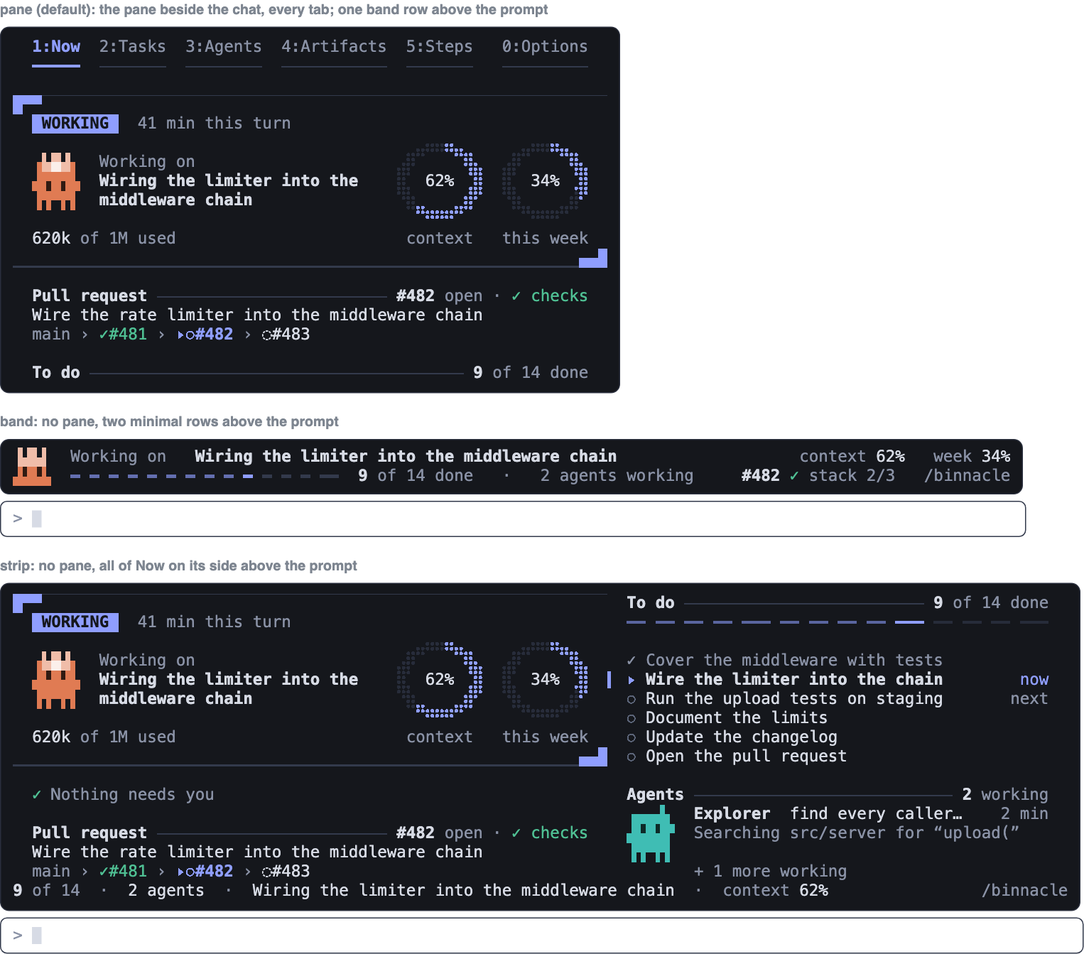
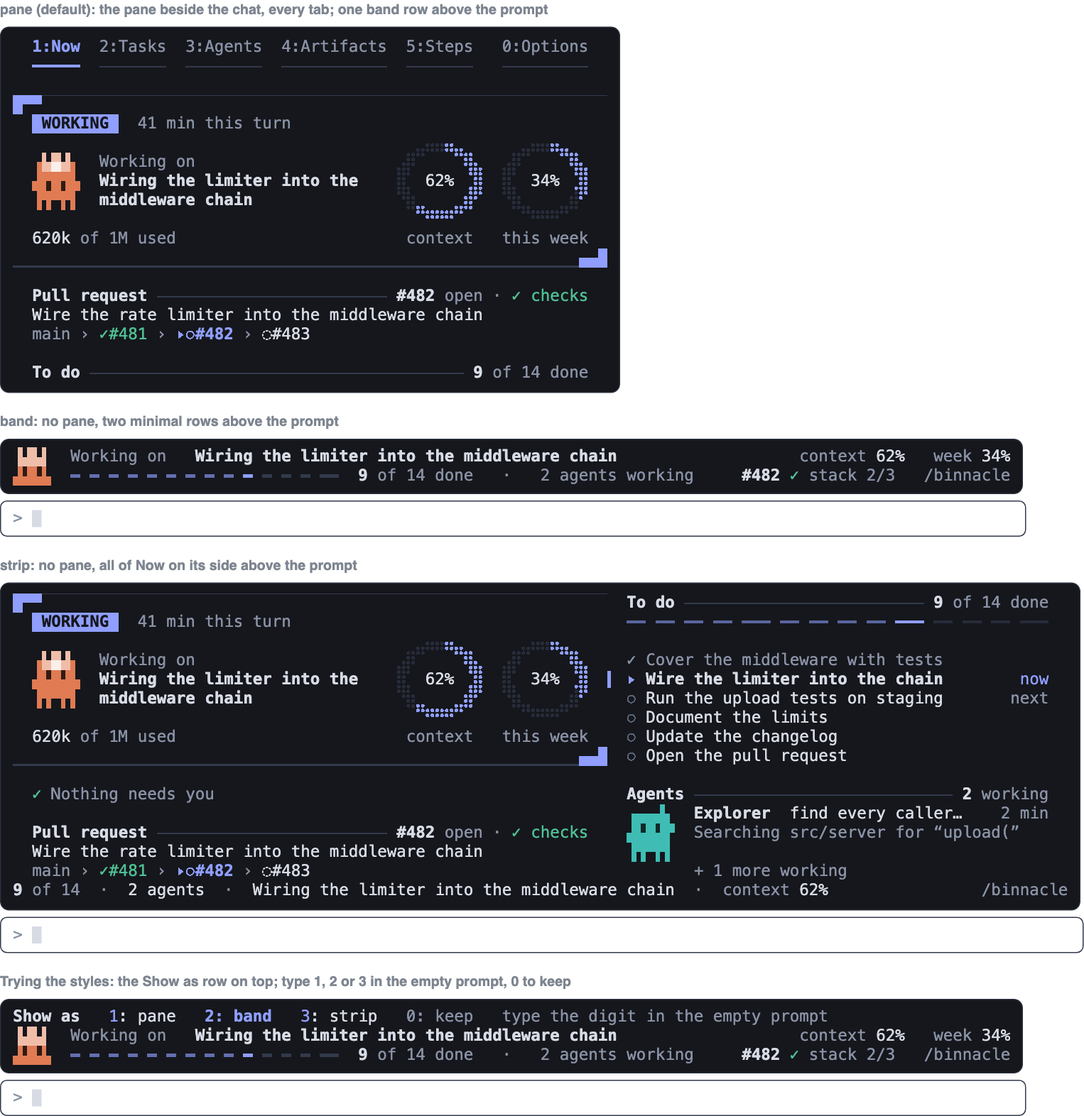
README: current renderings, a Pull request picture, the Show as try row

diff --git a/docs/readme/tools/shots.test.tsx b/docs/readme/tools/shots.test.tsx
@@ -28,6 +28,21 @@ const PR: PrState = {
     ],
   },
 }
+// A longer stack for the Pull request picture: every mark once (merged, queued, current, failing, draft).
+const STACK: PrState = {
+  at: NOW, branch: 'feat/limiter-chain',
+  current: { ...PR.current!, review: 'approved' },
+  stack: {
+    trunk: 'main',
+    items: [
+      { branch: 'feat/limiter-core', number: 480, url: 'https://github.com/acme/api/pull/480', title: 'Token bucket limiter', state: 'merged', checks: 'pass' },
+      { branch: 'feat/limiter-config', number: 481, url: 'https://github.com/acme/api/pull/481', title: 'Config for the limits', state: 'open', queued: true, checks: 'pass' },
+      { branch: 'feat/limiter-chain', number: 482, url: 'https://github.com/acme/api/pull/482', title: 'Wire the rate limiter into the middleware chain', state: 'open', checks: 'pass' },
+      { branch: 'feat/limiter-errors', number: 483, url: 'https://github.com/acme/api/pull/483', title: 'Return 429 with Retry-After', state: 'open', checks: 'fail' },
+      { branch: 'feat/limiter-docs', number: 484, url: 'https://github.com/acme/api/pull/484', title: 'Document the limits', state: 'open', draft: true, checks: 'pending' },
+    ],
+  },
+}
 // The one-shot moves (motion sketches) play on a view's first draw (the gauges fill when the pane opens): the
 // clock starts SETTLE_MS early, and a shot is the redraw at NOW, after every move has ended.
 const SETTLE_MS = 2000
@@ -125,13 +140,16 @@ test('narrow-40', async ($, on) => { world(on, busy()); await pane($, 'narrow-40
 
 test('band-busy', async ($, on) => { world(on, busy()); await band($, 'band-busy', 104) })
 test('band-asked', async ($, on) => { world(on, asked()); await band($, 'band-asked', 104) })
-test('band-watch', async ($, on) => { world(on, { ...watching(), budget: busy().budget }); await band($, 'band-watch', 104) })
 test('band-idle', async ($, on) => { world(on, idle()); await band($, 'band-idle', 104) })
 test('band-empty', async ($, on) => { world(on, empty as Timeline, initialUi, undefined); await band($, 'band-empty', 104) })
 test('band-stopped', async ($, on) => { world(on, stopped()); await band($, 'band-stopped', 104) })
 test('band-watch-64', async ($, on) => { world(on, { ...watching(), budget: busy().budget }); await band($, 'band-watch-64', 64) })
 test('band-64', async ($, on) => { world(on, busy()); await band($, 'band-64', 64) })
 test('band-40', async ($, on) => { world(on, busy()); await band($, 'band-40', 40) })
+test('now-stack', async ($, on) => { world(on, busy(), initialUi, STACK); await pane($, 'now-stack', 62, 46) })
+test('band-stack', async ($, on) => { world(on, busy(), initialUi, STACK); await band($, 'band-stack', 104) })
+// R55: trying the Show as styles from the band; the row sits on top until `0: keep`.
+test('band-try', { options: { showAs: 'band' } }, async ($, on) => { world(on, busy(), { ...initialUi, showAsTry: true }); await band($, 'band-try', 104) })
 test('band-strip', async ($, on) => { world(on, busy(), { ...initialUi, strip: true }); await band($, 'band-strip', 110, 'terminal', { maxRows: 20, scroll: { offset: 0, bodyRows: 20 } }) })
 
 test('desktop-now', async ($, on) => { world(on, busy()); await pane($, 'desktop-now', 62, 46, { surface: 'desktop' }) })

diff --git a/README.md b/README.md
@@ -14,7 +14,7 @@
 <p align="center">
   <picture>
     <source media="(prefers-color-scheme: light)" srcset="docs/readme/hero-day.png">
-    <img src="docs/readme/hero.png" width="960" alt="A terminal running Claude Code. The chat is on the left. On the right the Binnacle pane is open on the Now tab: the tab bar with 0:Options at its right end, a WORKING pill, 41 min this turn, the goal 'Wiring the limiter into the middleware chain', two ring gauges at 62% context and 34% this week, the Pull request #482 with its checks and the stack main › #481 › #482 › #483, a to-do list at 9 of 14 done, three notes, and two working agents drawn as small pixel Critters at the foot. Above the prompt a one-row band repeats the count, the agents and the context figure, and /binnacle.">
+    <img src="docs/readme/hero.png" width="960" alt="A terminal running Claude Code. The chat is on the left. On the right the Binnacle pane is open on the Now tab: the tab bar with 0:Options at its right end, a WORKING pill, 41 min this turn, the goal 'Wiring the limiter into the middleware chain', two ring gauges at 62% context and 34% this week, the Pull request #482 with its checks and the stack main › ✓#481 › ▸#482 › #483, a to-do list at 9 of 14 done with the current task marked now, three notes, and at the foot Agents, 2 working: an Explorer drawn as a small pixel Critter, '+ 1 more working' and '31 finished earlier'. Above the prompt a one-row band repeats the count, the agents, the goal and the context figure, and /binnacle.">
   </picture>
 </p>
 
@@ -41,28 +41,28 @@ Pick one with the **Show as** option (the Options tab, `0`, or `/config`); it ho
 |---|---|---|
 | `pane` (default) | The pane beside the chat with every tab, and a one-row band above the prompt. | `/binnacle` |
 | `band` | No pane. Two minimal rows above the prompt: the lead's Critter, the goal, the to-do bar, context and week, and the PR chip. Needs a terminal at least 80 columns wide (one row below that). | `/binnacle close` (or <kbd>Ctrl</kbd>+<kbd>X</kbd> <kbd>X</kbd>) |
-| `strip` | No pane. All of Now laid on its side above the prompt: the header, the PR, Watch, To do and Agents. | `/binnacle strip` |
+| `strip` | No pane. All of Now laid on its side above the prompt: the header, Needs you (or "Nothing needs you"), Watch, the PR, To do and Agents. | `/binnacle strip` |
 
 <p align="center">
-  <img src="docs/readme/show-as.png" width="760" alt="The three Show as choices, top to bottom. pane: the Binnacle pane on the Now tab with its tab bar, header and lists. band: two rows above the prompt, the lead's Critter, 'Working on' and the goal, context and week figures, then the to-do bar, '9 of 14 done', the agents and /binnacle. strip: a much taller block above the prompt with the full Now header and gauges on the left and To do and Agents on the right.">
+  <img src="docs/readme/show-as.png" width="760" alt="The three Show as choices and the row for trying them, top to bottom. pane: the top of the Binnacle pane on the Now tab, the tab bar ending in 0:Options, the header with its rings, the Pull request #482 with its stack, and To do. band: two rows above the prompt, the lead's Critter, 'Working on' and the goal, context and week figures, then the to-do bar, '9 of 14 done', '2 agents working', the PR chip '#482 ✓ stack 2/3' and /binnacle. strip: a much taller block above the prompt with the full Now header, 'Nothing needs you' and the Pull request on the left, To do and Agents on the right, and the band's one row beneath. Trying the styles: the band with one more row on top, 'Show as 1: pane 2: band 3: strip 0: keep', band in bold, and 'type the digit in the empty prompt'.">
 </p>
 
 ### Every part
 
 | Where | What it is |
 |---|---|
-| **Pane** | Docks beside the transcript. Five tabs, keys `1` to `5`, and an Options tab on `0` at the right of the tab bar. |
+| **Pane** | Docks beside the transcript. Five tabs, keys `1` to `5`, and an Options tab, `0`, at the right end of the tab bar. |
 | **1 Now** | The header (state, time this turn, the goal, context and week as rings; `header: slim` for a 4-row one), Needs you only when something does, the pull request and its GitHub stack, then To do, Notes and decisions, the newest Artifacts, and Agents. |
 | **2 Tasks** | How many tasks are done, the pace, effort per task, then Doing now with its agents, Up next and Done. |
 | **3 Agents** | Main and every subagent or workflow agent, as a list of cards or as the Crew map. |
 | **4 Artifacts** | What the session produced: published pages, documents, results, links, changed files, kept steps, and the handoff export. |
 | **5 Steps** | Every tool call of the session, grouped by turn, filterable and searchable. A step opens in place. |
 | **Band** | Above the prompt, always: two rows with the pane closed (from 80 columns), one row while the pane is open, one dim row when all is done. Before anything happens the lead's Critter peeks up from below beside "Ready when you are", a small companion that never leaves. |
-| **Slim** | Under 32 columns the pane is one stacked summary with no tab bar; it keeps a one-line Watch (or "quiet 30 min"). |
-| **Strip** | From 96 columns Now lies on its side; `/binnacle strip` puts that strip above the prompt instead of the pane. |
+| **Slim** | Under 32 columns the pane is one stacked summary with no tab bar; it keeps the "Nothing needs you" line, a one-line Watch (or "quiet 30 min") and the PR as a chip. |
+| **Strip** | Now on its side; `/binnacle strip` (or Show as `strip`) puts it above the prompt instead of the pane. A pane 96 columns or wider draws Now this way too. |
 | **Desktop app** | The Now header and the band are drawn as pictures (Svg), ending at the header, in the same words and colours. |
 
-Options sits at the right end of the tab bar as `0: Options`; to make room the tabs close up (`1:Now`) on a narrower pane. The tab bar shortens with the pane: full names from 54 columns, then the short words `Now Tasks Crew Files Steps` down to 38 (as `1:Now` from 38 to 42), and icons only under 38.
+Options sits at the right end of the tab bar. To make room for it the tabs close up: on the default 62-column pane they read `1:Now 2:Tasks …` and the last tab `0:Options`; a wider pane spaces them out as `1: Now` and `0: Options`. The tab bar shortens with the pane: full names from 54 columns, then the short words `Now Tasks Crew Files Steps` (and `Opts`) down to 38, and icons only under 38, where Options is not drawn but `0` still opens it.
 
 ## Features
 
@@ -70,11 +70,11 @@ Options sits at the right end of the tab bar as `0: Options`; to make room the t
 
 <img src="docs/readme/now.png" width="440" align="right" alt="The Now tab. The tab bar ends in 0:Options. A WORKING pill with '41 min this turn', the lead Critter beside 'Working on: Wiring the limiter into the middleware chain', '620k of 1M used', rings for context 62% and this week 34%. Below: Pull request #482 open with green checks, its title, and the stack main › ✓#481 › ▸#482 › #483; To do, 9 of 14 done, with a segmented bar, the current task marked 'now · 12 min' and the next one 'next'; Notes and decisions with one decided and two notes; and at the foot Agents, 2 working, an Explorer with what it is doing. Footer: ↵ open, 0 options, esc prompt, o open #482.">
 
-**What is happening** is the header: a pill, the time this turn, the goal of the request beside the lead's Critter, and two ring gauges for context and this week. **Does anything need me** stays silent until something does: then the Needs you block appears right under the header. **What am I shipping** is the pull request and its stack. **How far along** is the to-do list, with the current task marked `now` and the one after it `next`, followed by Notes and decisions and the newest artifacts. The lists you read get the room first; agent cards come last.
+**What is happening** is the header: a pill, the time this turn, the goal of the request beside the lead's Critter, and two ring gauges for context and this week. **Does anything need me** stays silent until something does: then the Needs you block appears right under the header. There is no "all clear" line; an empty slot means nothing waits. **What am I shipping** is the pull request and its stack. **How far along** is the to-do list, with the current task marked `now` and the one after it `next`, followed by Notes and decisions and the three newest artifacts (a press opens one). The lists you read get the room first: spare rows go to To do until every task shows, then the blocks spread apart, and Agents sits at the foot of the pane.
 
 Want more room for the lists? `header: slim` draws the header in four rows, with context and week as figures ([see it](docs/readme/now-slim.png)).
 
-Now holds no log. There is no command line scrolling by, no step count and no error count: the things that change every second live on the Steps tab, so this page stays readable from across the room. An agent says what it is doing in words ("Searching src/server", "Editing test/rateLimit.test.ts"), not as a tool call.
+Now holds no log and no Watch rows. There is no command line scrolling by, no step count and no error count: the things that change every second live on the Steps tab, so this page stays readable from across the room. An agent says what it is doing in words ("Searching src/server", "Editing test/rateLimit.test.ts"), not as a tool call.
 
 The pill has five states, each in its own colour:
 
@@ -88,7 +88,11 @@ A turn that failed is STOPPED with its reason in red. A request that ends with t
 
 ### Pull request and GitHub stack
 
-When the branch you are on has a pull request, Now shows it under the header: its number, state, checks and review, and its title. On a [GitHub stack](https://github.com/github/gh-stack) (`gh stack`) a third row lists every branch of the stack from the trunk up, `main › ✓#120 › ○#121 › ▸#123 › ◌#124`, with merged, open, draft and queued marks and failing checks in red. Press a PR, or `o`, to open it in the browser; `h` and `l` move the cursor along the stack. The band shows the same as a chip, `#123 ✓ stack 3/4`.
+<p align="center">
+  <img src="docs/readme/pr.png" width="900" alt="Top: the Pull request block from Now. 'Pull request', then '#482 open · ✓ checks · approved' in green, the title 'Wire the rate limiter into the middleware chain', and the stack row main › ✓#480 (merged, green) › ◎#481 (queued) › ▸○#482 (the current one, in the accent) › ○#483 (failing checks, red) › ◌#484 (draft). Bottom: the band for the same session, its second row ending in the chip '#482 ✓ stack 3/5' and /binnacle.">
+</p>
+
+When the branch you are on has a pull request, Now shows it under the header (and under Needs you, when something waits): its number, state, checks and review, and its title. On a [GitHub stack](https://github.com/github/gh-stack) (`gh stack`) a third row lists every branch of the stack from the trunk up. Each carries a mark: `✓` merged, `◎` in the merge queue, `○` open, `◌` draft, `✕` closed; a PR whose checks fail is red, and `▸` is the cursor, on your branch to begin with. Press a PR, or `o`, to open it in the browser; `h` moves the cursor down the stack toward the trunk and `l` up it, and `o` then opens the one under the cursor. The band shows the same as a chip, `#482 ✓ stack 3/5`. The strip shows the whole block, and slim the chip.
 
 The mod asks `gh` (and `gh stack` when it is installed) at session start, two seconds after a `git` or `gh` command that can move the branch or a PR, and every three minutes. Without `gh`, without a remote or offline, the block simply stays away.
 
@@ -101,7 +105,7 @@ The mod asks `gh` (and `gh stack` when it is installed) at session start, two se
 Most dashboards shout about everything. This one keeps two lists apart, so amber always means the same thing.
 
 - **Needs you** holds only what blocks the session on a dialog: a permission, a question, a plan to approve, or an MCP server's input request. It says who asks and what for, and points you to the prompt. It has no dismiss key; it clears when the dialog is answered.
-- **Watch** holds what is worth a glance and asks nothing. It stays off Now (the band counts it, slim and the strip show it): a step that has run far longer than usual, an agent that has gone quiet for 10 minutes, a long run (60 minutes for an agent, 120 for a turn; both are options), the same command failing again, and a loop. Watch is never amber, never takes the keyboard, and `x` dismisses a row.
+- **Watch** holds what is worth a glance and asks nothing. It stays off Now (the band's one-row form counts it, slim and the strip show it): a step that has run far longer than usual, an agent that has gone quiet for 10 minutes, a long run (60 minutes for an agent, 120 for a turn; both are options), the same command failing again, and a loop. Watch is never amber, never takes the keyboard, and `x` dismisses a row.
 
 Amber is used for a dialog and nothing else. A gauge that fills up turns bold at 70 % and red at 90 %, not amber.
 
@@ -175,10 +179,10 @@ A toast tells you once when the context reaches 80 %.
 ### The band
 
 <p align="center">
-  <img src="docs/readme/band.png" width="900" alt="The band in eight forms. Before anything happens: the lead's Critter peeks up beside 'Ready when you are' and '/binnacle'. Working: the lead's Critter, 'Working on' and the goal, 'context 62%  week 34%', and a second row with the to-do bar, '9 of 14 done · 2 agents working', the PR chip '#482 ✓ stack 2/3' and '/binnacle'. A dialog waiting: the asking agent's Critter with a question-mark badge, 'Needs you' in amber, 'General asks to run a command Bash npm run deploy -- --env staging', 'answer below'. Something to watch: unchanged but for '2 to watch'. After a failed turn: 'Stopped' and the reason in red. All done: one dim row, 'All 14 done · 1 h 18 min · 6 files changed · cache warm 2 min'. At 64 columns and at 40 columns: one row that drops the goal before the count.">
+  <img src="docs/readme/band.png" width="900" alt="The band in seven forms. Working: the lead's Critter, 'Working on' and the goal, 'context 62%  week 34%', and a second row with the to-do bar, '9 of 14 done · 2 agents working', the PR chip '#482 ✓ stack 2/3' and '/binnacle'. A dialog waiting: the asking agent's Critter with a question-mark badge, 'Needs you' in amber, 'General asks to run a command Bash npm run deploy -- --env staging', 'answer below', and the to-do bar and PR chip beneath. After a failed turn: the lead greyed with a red exclamation badge, 'Stopped' and the reason 'The API was overloaded (529)' in red. Before anything happens: the top of the lead's Critter peeks up beside 'Ready when you are' and '/binnacle'. All done: the peeking lead and one dim row, 'All 14 done · 1 h 18 min · 6 files changed · cache warm 2 min'. One row, at 64 columns '9 of 14 · 2 agents · context 62%' and at 40 columns '9 of 14 · 2 agents', each with /binnacle.">
 </p>
 
-The band sits above the prompt and is there even when the pane is closed, so the three answers never leave the screen. It shows one Critter (the lead, or whoever is asking), the goal, the to-do bar and the gauges as words. A dialog turns it amber and names the ask. Watch never colours it. When everything is done it shrinks to one dim row with the lead peeking up beside it, and while the pane is open it is one compact row. It never disappears: before anything happens the lead's Critter peeks up from below beside "Ready when you are", so a new session already shows where Binnacle lives. It also carries the PR chip (`#482 ✓ stack 2/3`). A narrow band drops the gauges first, and cuts the goal only at a word.
+The band sits above the prompt and is there even when the pane is closed, so the three answers never leave the screen. It shows one Critter (the lead, or whoever is asking), the goal, the to-do bar and the gauges as words. A dialog turns it amber and names the ask. Watch never colours it. When everything is done it shrinks to one dim row with the lead peeking up beside it, and while the pane is open it is one compact row. It never disappears: before anything happens the lead's Critter peeks up from below beside "Ready when you are", so a new session already shows where Binnacle lives. It also carries the PR chip (`#482 ✓ stack 2/3`). The one-row form (pane open, or under 80 columns) counts what is under Watch ("2 to watch"); the two-row form does not. A narrow band drops the gauges first, and cuts the goal only at a word.
 
 ### Slim, strip and the desktop app
 
@@ -189,10 +193,10 @@ The band sits above the prompt and is there even when the pane is closed, so the
 **Slim.** `/binnacle slim` asks for a 28-column pane; any pane under 32 columns draws this way. There is no tab bar: each title opens its tab. A line under Needs you shows how many things to watch and the top one, or "quiet 30 min" when nothing else is up. When rows run short, whole blocks go from the bottom, and Needs you is kept longest.
 
 <p align="center">
-  <img src="docs/readme/strip.png" width="900" alt="The strip above the prompt, 110 columns wide: the Now header with the lead Critter, the goal and both gauges on the left; To do (9 of 14 done, the current and next task) and Agents (2 working) on the right; the band's compact row beneath, then the prompt.">
+  <img src="docs/readme/strip.png" width="900" alt="The strip above the prompt, 110 columns wide: on the left the Now header with the lead Critter, the goal and both rings, then 'Nothing needs you' and the Pull request #482 with its stack; on the right To do (9 of 14 done, the current and next task) and Agents (2 working, an Explorer card and '+ 1 more working'); the band's one row beneath, then the prompt.">
 </p>
 
-**Strip.** `/binnacle strip` closes the pane and draws Now on its side above the prompt, for when you want the full width for the chat. The pane itself uses the same layout from 96 columns. When a dialog waits, the strip puts the ask first, ahead of the header. The strip never takes more than half the terminal's height. A click on a row opens the pane there.
+**Strip.** `/binnacle strip` closes the pane and draws Now on its side above the prompt, for when you want the full width for the chat. From 96 columns it has two columns; narrower, the same blocks stack in one, the Pull request included. The pane itself uses the two-column layout from 96 columns. When a dialog waits, the strip puts the ask first, ahead of the header. The strip never takes more than half the terminal's height. A click on a row opens the pane there.
 
 <p align="center">
   <img src="docs/readme/desktop.png" width="820" alt="The desktop app's forms. The Now header as a picture, on the night ground and on the day ground: a rounded WORKING pill, the lead Critter, the goal, '620k of 1M used' and two smooth rings. The band as a picture, working and while a dialog waits ('Needs you', the ask, 'answer below').">
@@ -203,7 +207,7 @@ The band sits above the prompt and is there even when the pane is closed, so the
 ### Looks and small delights
 
 <p align="center">
-  <img src="docs/readme/looks.png" width="900" alt="The Now header in four looks: the iris accent (the default, violet-blue), the sky accent (light blue), the slate accent (grey-blue), and the day ground on a light theme.">
+  <img src="docs/readme/looks.png" width="900" alt="The top of Now in four looks, each with the tab bar (the current tab and its underline in the accent) and the header: the iris accent (the default, violet-blue), the sky accent (light blue), the slate accent (grey-blue), and the day ground on a light theme.">
 </p>
 
 - **Accent**: `iris`, `sky` or `slate`. None of them is a state colour, so the accent never reads as a warning.
@@ -220,12 +224,12 @@ The band sits above the prompt and is there even when the pane is closed, so the
 
 <table>
 <tr>
-<td width="50%" valign="top"><img src="docs/readme/text-look.png" alt="Now in the text look: the same rows with no pictures. The lead is a dot and the word 'lead', the gauges are '62%' and '34%' with their labels, each agent is a dot beside its name."></td>
-<td width="50%" valign="top"><img src="docs/readme/options.png" alt="The Options tab, 0:Options highlighted at the right of the tab bar: the title and '↵ changes the value', then every option with its value and what Enter sets next (or when a change applies). Look: Look, Show as, Header, Accent, Crew background, Crew motion. Signals: Notify, Notify for Watch, Done sound, Agent time limit, Turn time limit. Budget: Show cost. Start: Open at start, Guide Claude, Editor. A Never section: picks a model for you, sets an effort for you, splits your work into a crew, sends a request to keep the cache warm."></td>
+<td width="50%" valign="top"><img src="docs/readme/text-look.png" alt="Now in the text look: the same rows with no pictures. The header keeps its WORKING pill; the lead is a dot and the word 'lead' beside the goal, and the gauges are '62%' and '34%' over their labels. Below, the Pull request #482 with its stack, and To do with the current and next task."></td>
+<td width="50%" valign="top"><img src="docs/readme/options.png" alt="The Options tab, 0:Options highlighted at the right of the tab bar: the title and '↵ changes the value', then every option with its value and, on the right, what Enter sets next ('↵ rich', '↵ band', '↵ 90 min') or when a change applies ('next start', 'new thread', 'in /config'). Look: Look, Show as, Header, Accent, Crew background, Crew motion. Signals: Notify, Notify for Watch, Done sound, Agent time limit, Turn time limit. Budget: Show cost. Start: Open at start, Guide Claude, Editor. A Never section: picks a model for you, sets an effort for you, splits your work into a crew, sends a request to keep the cache warm. Footer: ↵ change, ↑↓ move, b back."></td>
 </tr>
 <tr>
 <td valign="top">The text look carries every word of the rich one.</td>
-<td valign="top"><code>0</code> or <code>/binnacle options</code>. Look options apply at once. The Never section lists what the mod will not do.</td>
+<td valign="top"><code>0</code> or <code>/binnacle options</code>. Enter changes the row you are on, in place; the right column says what it will set next. Look options apply at once. The Never section lists what the mod will not do.</td>
 </tr>
 </table>
 
@@ -270,7 +274,7 @@ All of these work in the middle of a turn. They are the only commands.
 
 ## Keys
 
-<kbd>Ctrl</kbd>+<kbd>X</kbd> <kbd>Tab</kbd> focuses the pane (remap it with the `abovePrompt:focus` action in `~/.claude/keybindings.json`). <kbd>↑</kbd> <kbd>↓</kbd> and <kbd>Tab</kbd> always move between rows and never just scroll; <kbd>Page Up</kbd> <kbd>Page Down</kbd> (and the wheel) scroll a pane taller than the window, <kbd>Enter</kbd> opens one, <kbd>Esc</kbd> returns to the prompt, and <kbd>Ctrl</kbd>+<kbd>X</kbd> <kbd>X</kbd> closes the pane. The footer shows the hints that apply to the screen you are on.
+<kbd>Ctrl</kbd>+<kbd>X</kbd> <kbd>Tab</kbd> focuses the pane (remap it with the `abovePrompt:focus` action in `~/.claude/keybindings.json`). <kbd>↑</kbd> <kbd>↓</kbd> and <kbd>Tab</kbd> always move between rows and never just scroll, also right after a page opens or closes; <kbd>Page Up</kbd> <kbd>Page Down</kbd>, <kbd>Home</kbd> <kbd>End</kbd> and the wheel scroll a pane taller than the window, <kbd>Enter</kbd> opens one, <kbd>Esc</kbd> returns to the prompt, and <kbd>Ctrl</kbd>+<kbd>X</kbd> <kbd>X</kbd> closes the pane. The footer shows the hints that apply to the screen you are on.
 
 <details>
 <summary><b>Every hotkey</b></summary>
@@ -310,7 +314,7 @@ Hotkeys reach the pane only while it has focus. A key acts on the thing in view:
 
 ## Options
 
-Set them on the Options tab (`0`, at the right of the tab bar), from the plugin's config menu, or under `pluginConfigs["binnacle"].options` in a settings file. On the Options tab, <kbd>↑</kbd> <kbd>↓</kbd> move between options and <kbd>Enter</kbd> changes the one you are on: a switch flips, a choice steps to the next value, a time limit steps through 30, 45, 60, 90, 120, 180 and 240 minutes and off. `0` or `b` leaves.
+Set them on the Options tab (`0`, at the right of the tab bar), from the plugin's config menu, or under `pluginConfigs["binnacle"].options` in a settings file. On the Options tab, <kbd>↑</kbd> <kbd>↓</kbd> move between options and <kbd>Enter</kbd> changes the one you are on: a switch flips, a choice steps to the next value, a time limit steps through 30, 45, 60, 90, 120, 180 and 240 minutes and off. The right column shows what Enter will set, or when the change applies (`next start`, `new thread`); the editor is set in `/config`. `0` or `b` leaves.
 
 | Option | Default | What it does |
 |---|---|---|
